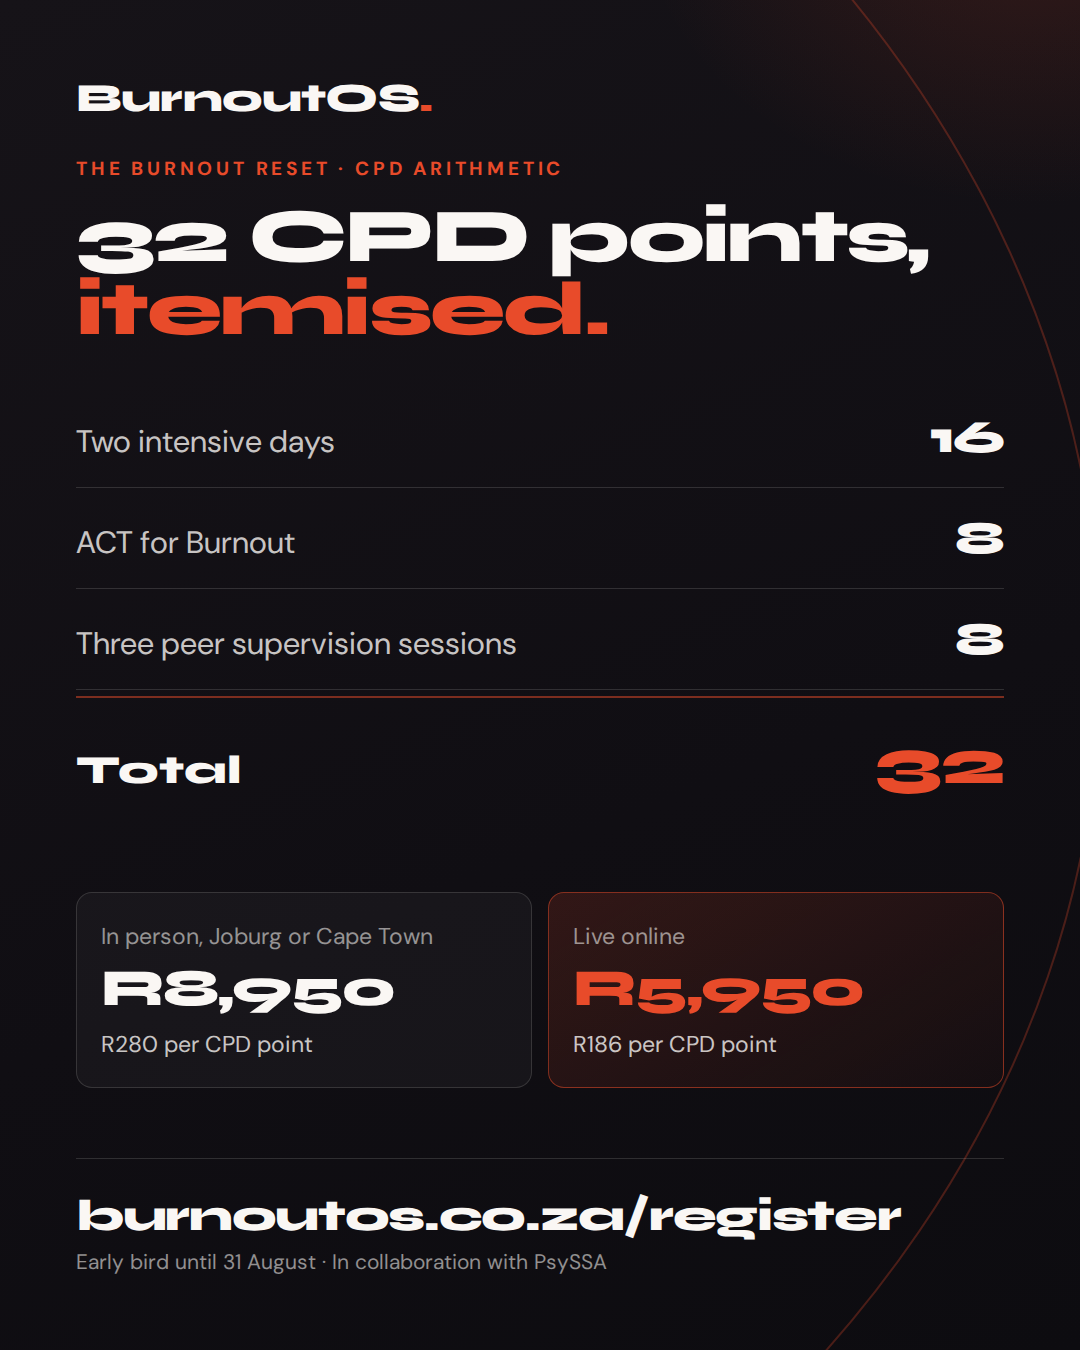
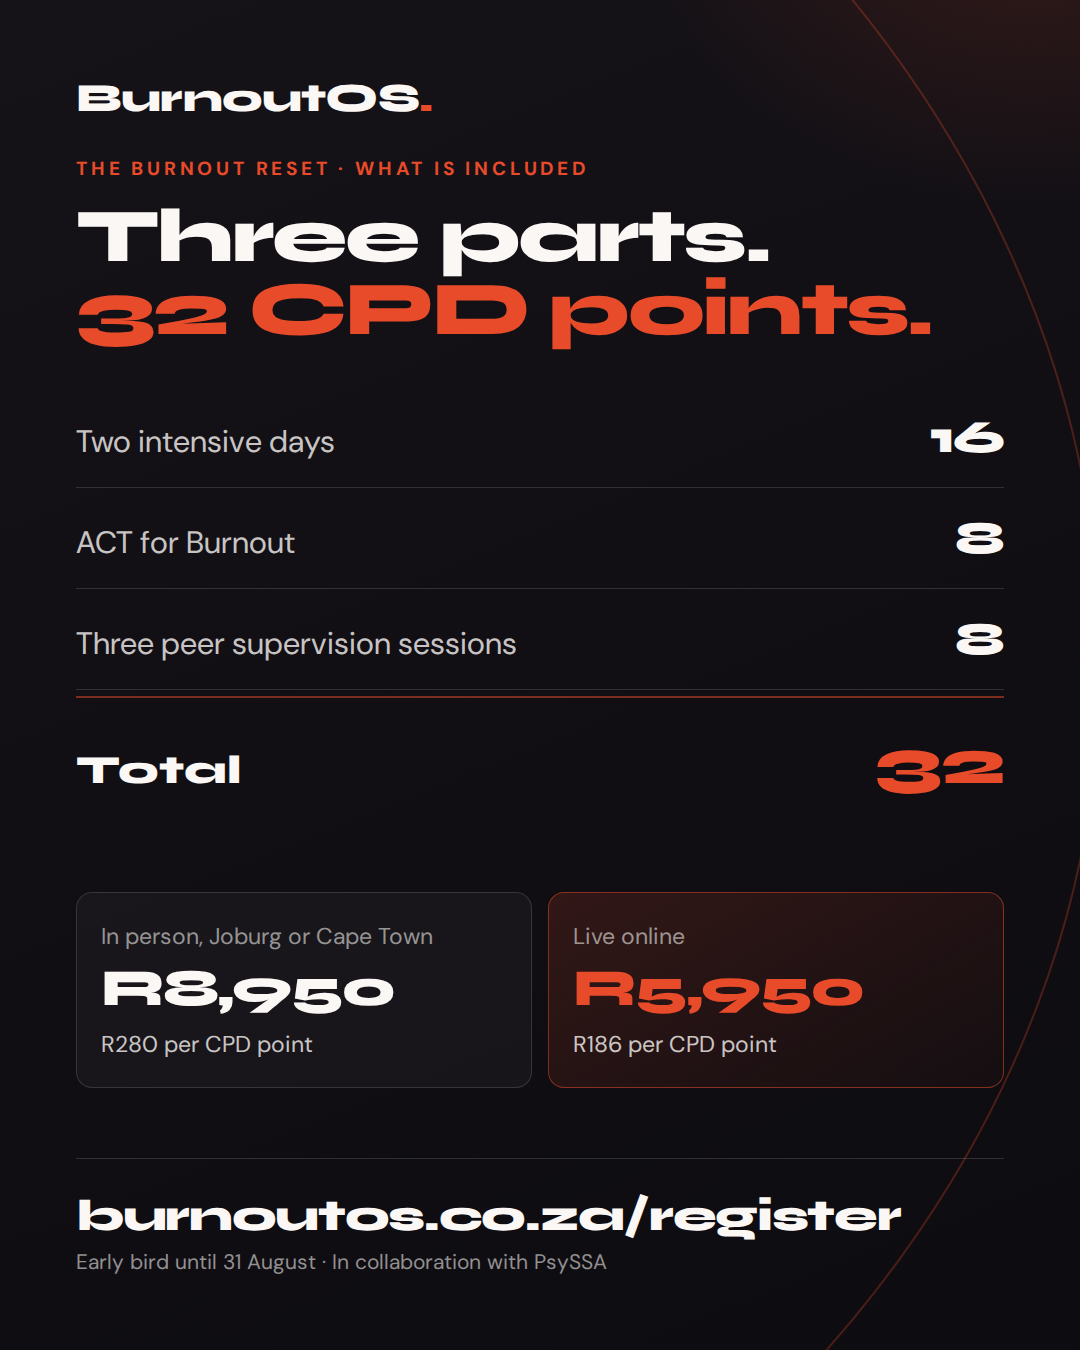
Reword the value-stack creative to additive language
'Itemised' and 'arithmetic' are audit words. They frame the card as a
reconciliation of what the buyer is owed rather than an accumulation of
what they get, which is the opposite of what a value stack does.

Headline is now 'Three parts. 32 CPD points.' and the eyebrow reads 'What
is included'. The numbers are unchanged.

Changed region(s): [[0.0611, 0.0933, 0.8556, 0.28]]

diff --git a/src/posters/build_retarget.py b/src/posters/build_retarget.py
@@ -58,9 +58,9 @@ HTML = """<!doctype html><html><head><meta charset="utf-8"><style>""" + CSS + ""
   </svg>
   <div class="wm">BurnoutOS<i>.</i></div>
   <div style="height:34px"></div>
-  <div class="eyebrow">The Burnout Reset &middot; CPD arithmetic</div>
+  <div class="eyebrow">The Burnout Reset &middot; What is included</div>
   <div style="height:20px"></div>
-  <h1>32 CPD points,<br><em>itemised.</em></h1>
+  <h1>Three parts.<br><em>32 CPD points.</em></h1>
   <div style="height:40px"></div>
   <div class="rows">""" + rows + """</div>
   <div class="spacer"></div>
